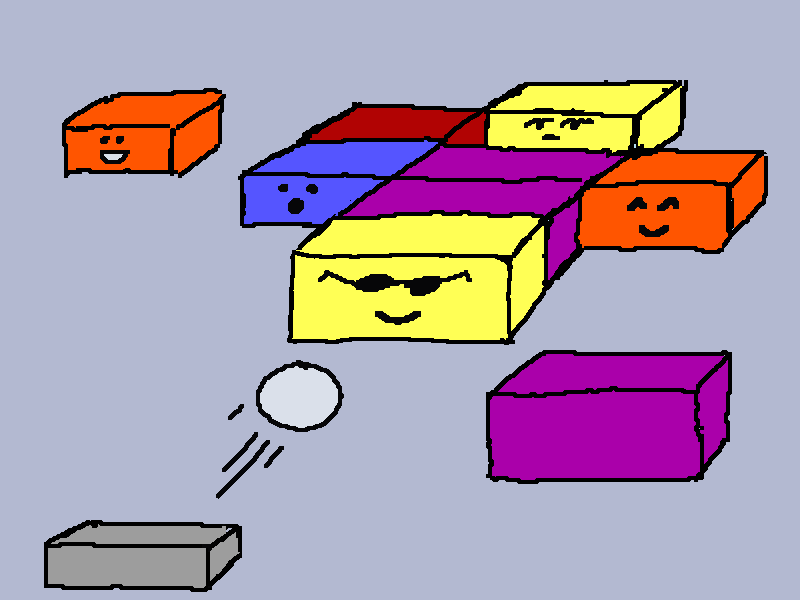
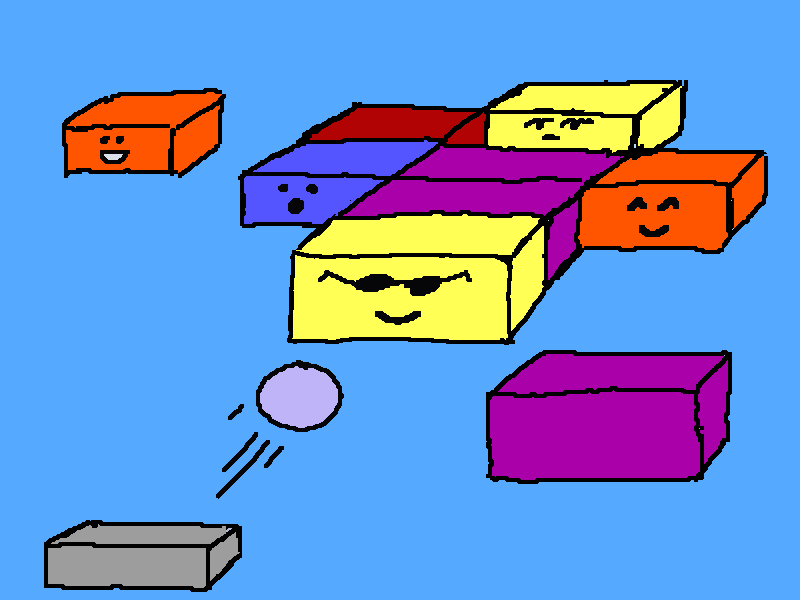
color adjustment for score and level

diff --git a/game.py b/game.py
@@ -26,6 +26,7 @@ class Game:
                                                self.screen_height))
         self.screen_rect = self.screen.get_rect()
         pygame.display.set_caption("Game")   
+        self.bg_color = (23, 23, 187) #(0, 100, 150) (0, 0, 85)
         self.clock = pygame.time.Clock()   
         self.fps = 60
 
@@ -86,7 +87,6 @@ class Game:
                     self.check_blocks()
                     self.update_blocks()
                     self.check_level_end()
-                    
                     self.bonus_action(self.active_drop)
                     if self.pickup_visible:
                         self.pickup.update()
@@ -385,7 +385,7 @@ class Game:
         #                     ] 
             
     def update_screen(self):
-        self.screen.fill((0, 100, 150))
+        self.screen.fill(self.bg_color)
 
         if not self.game_active and self.endscreen_visible:
             self.screen.blit(self.end_screen, (0, 0))

diff --git a/block.py b/block.py
@@ -25,7 +25,7 @@ class Block(Sprite):
 
     def get_color(self, col):
         if col == "blue":
-            return (85, 85, 255)
+            return (85, 170, 255)
         elif col == "red":
             return (177, 3, 3)
         elif col == "orange":
@@ -65,7 +65,7 @@ class Block(Sprite):
     
     def check_color(self, hp):
         if hp == 1:
-            return (85, 85, 255)
+            return (85, 170, 255)
         elif hp == 2:
             return (177, 3, 3)
         elif hp == 3:

diff --git a/scorelabel.py b/scorelabel.py
@@ -13,7 +13,7 @@ class Scorelabel:
         # self.score_rect = pygame.rect.Rect(0, 0, 0, 0)
         
         # Font settings
-        self.label_color = (0, 100, 150)   
+        self.label_color = self.game.bg_color
         self.text_color = (30, 230, 230)
         self.font = pygame.font.SysFont(None, 48)
         self.lives = self.settings.lives
